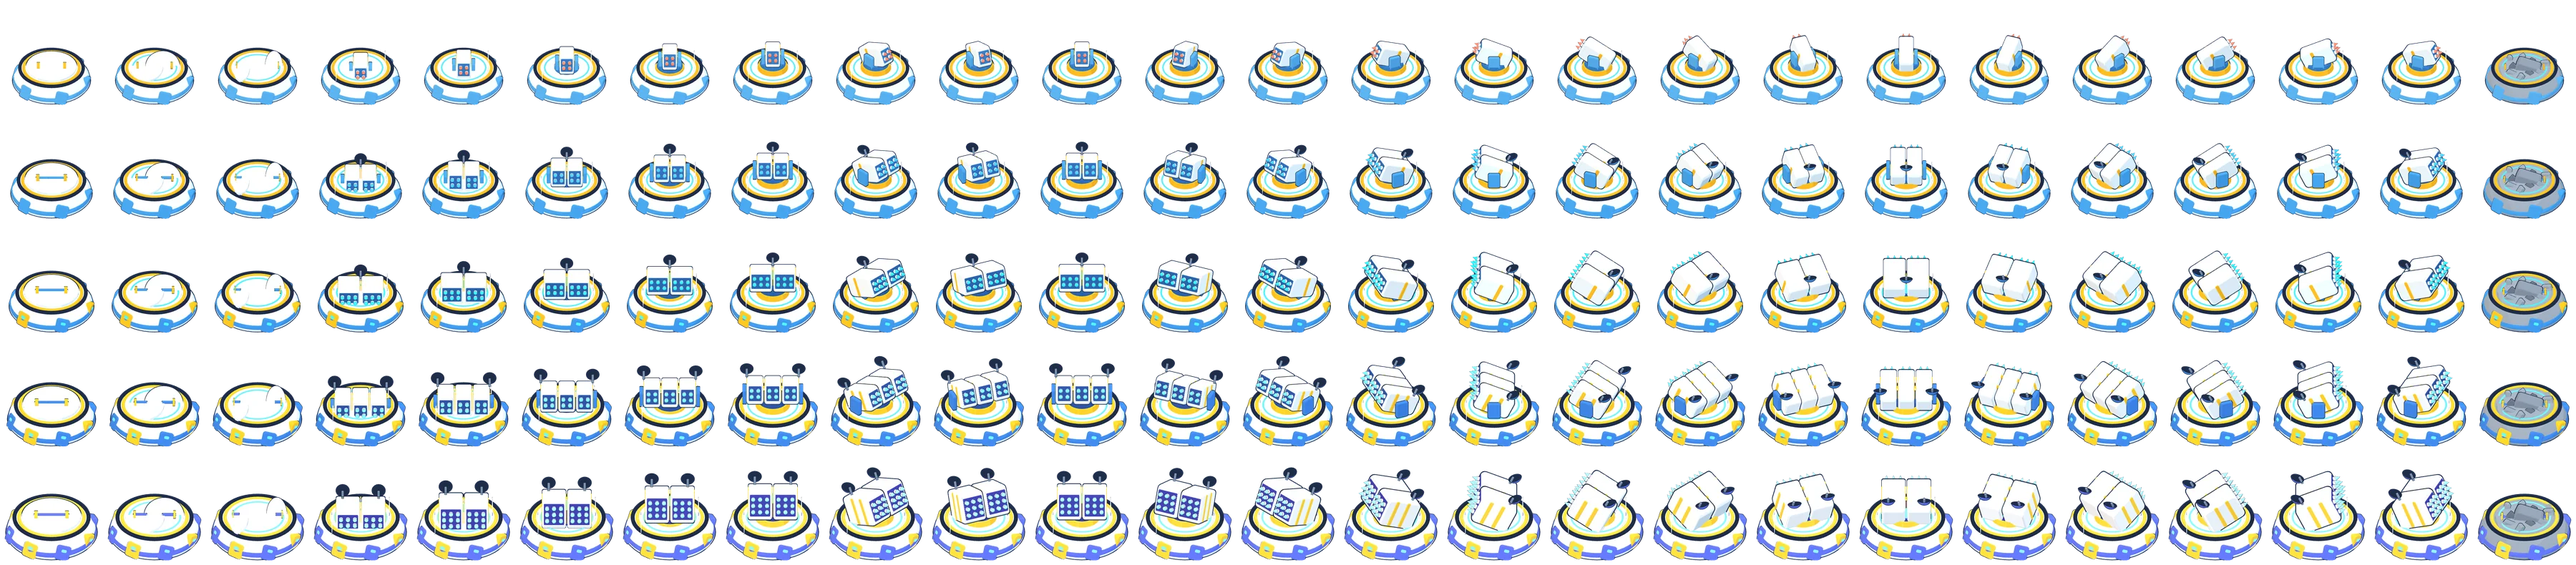
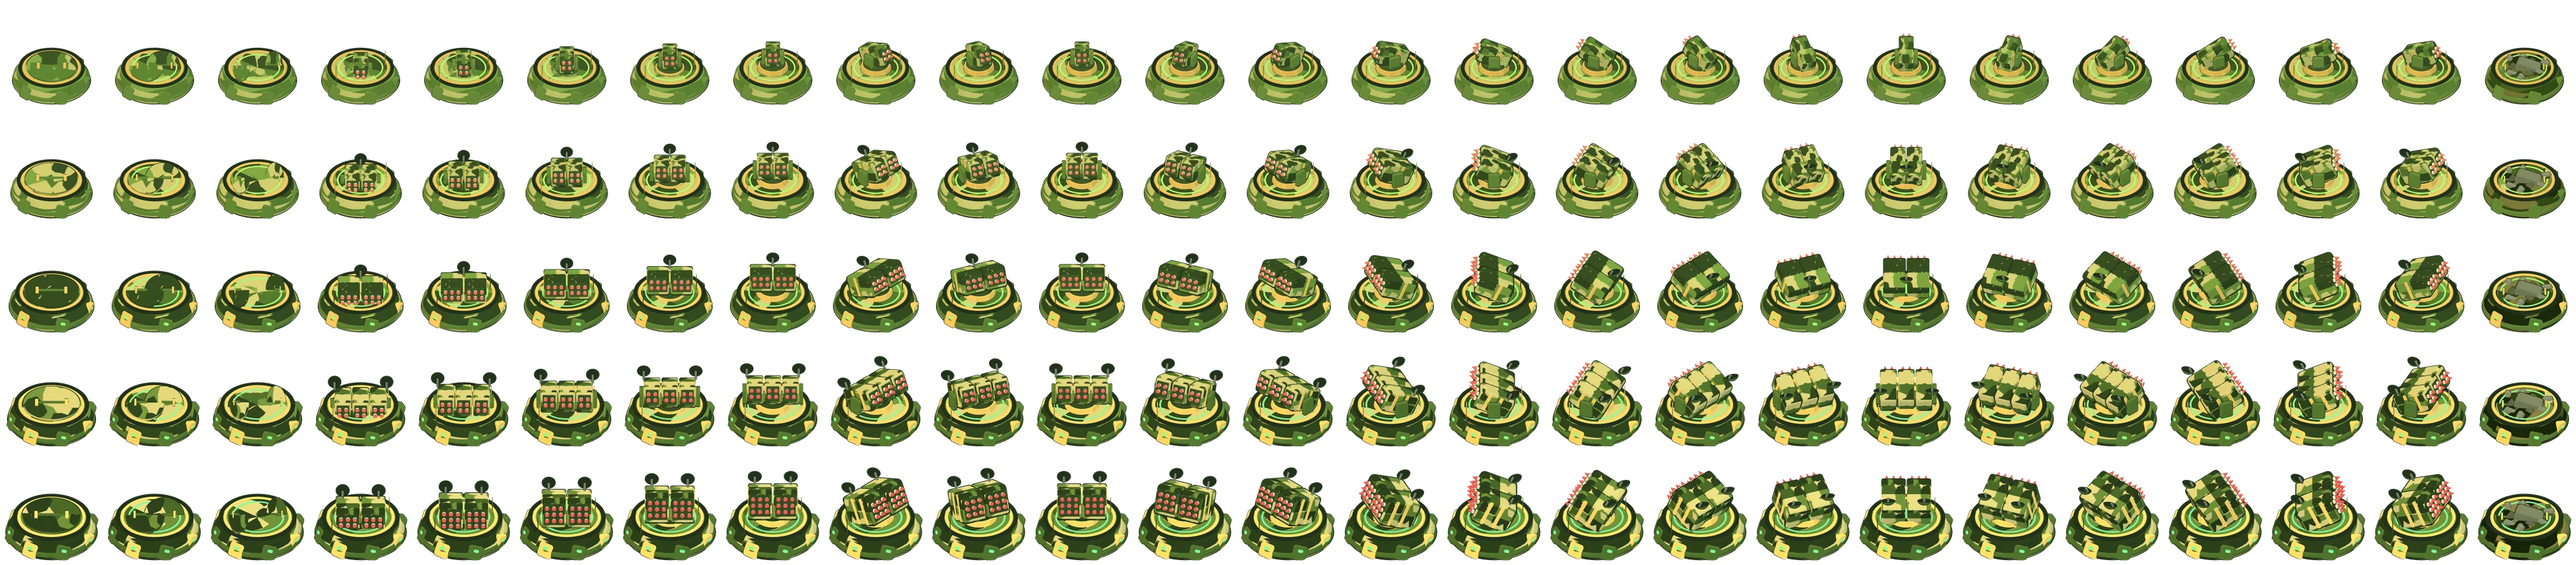
Missile silo in woodland camouflage to blend with grass (392)
Claude-Session: https://claude.ai/code/session_01ENEEn5t6aRdnVfFLYAeBwL

diff --git a/features/render3d/silo3d.html b/features/render3d/silo3d.html
@@ -15,23 +15,30 @@ const sun=new T.DirectionalLight(0xfff0d6,3.0);sun.position.set(-3,10,7);S.add(s
 const rim=new T.DirectionalLight(0x9fe3ff,1.4);rim.position.set(7,3,-5);S.add(rim);
 const g=new Uint8Array([65,145,212,255]);const ramp=new T.DataTexture(g,4,1,T.RedFormat);ramp.minFilter=ramp.magFilter=T.NearestFilter;ramp.needsUpdate=true;
 const M=(c,e=0)=>new T.MeshToonMaterial({color:c,gradientMap:ramp,emissive:e});
-const OUT=new T.MeshBasicMaterial({color:0x1f2c48,side:T.BackSide});
+const OUT=new T.MeshBasicMaterial({color:0x22301c,side:T.BackSide});
+// Woodland camouflage that sits naturally on the grass: olive base, leaf-green, khaki and dark-moss blotches.
+function camo(seed,cols,rep){const c=document.createElement('canvas');c.width=c.height=256;const x=c.getContext('2d');let r=seed;const rnd=()=>((r=(r*16807)%2147483647)/2147483647);
+ x.fillStyle=cols[0];x.fillRect(0,0,256,256);
+ for(let k=1;k<cols.length;k++){x.fillStyle=cols[k];for(let i=0;i<14-k*2;i++){const cx=rnd()*256,cy=rnd()*256,rr=18+rnd()*30;x.beginPath();for(let a=0;a<10;a++){const t=a/10*Math.PI*2,q=rr*(0.6+rnd()*0.6);x.lineTo(cx+Math.cos(t)*q*1.4,cy+Math.sin(t)*q);}x.closePath();
+  for(const dx of [-256,0,256])for(const dy of [-256,0,256]){x.save();x.translate(dx,dy);x.fill();x.restore();}}}
+ const tx=new T.CanvasTexture(c);tx.wrapS=tx.wrapT=T.RepeatWrapping;tx.repeat.set(rep,rep);tx.colorSpace=T.SRGBColorSpace;tx.magFilter=T.NearestFilter;return tx;}
+const CM=(tx)=>new T.MeshToonMaterial({color:0xffffff,map:tx,gradientMap:ramp});
 function mesh(geo,mat,parent,ol=0.05){const m=new T.Mesh(geo,mat);parent.add(m);if(ol){const o=new T.Mesh(geo,OUT);o.scale.setScalar(1+ol);m.add(o);}return m;}
 function lathe(pts,seg=48){return new T.LatheGeometry(pts.map(p=>new T.Vector2(p[0],p[1])),seg);}
 function rbox(w,h,d,r){const s=new T.Shape(),x=-w/2+r,y=-h/2+r;s.moveTo(x,-h/2);s.lineTo(w/2-r,-h/2);s.quadraticCurveTo(w/2,-h/2,w/2,y);s.lineTo(w/2,h/2-r);s.quadraticCurveTo(w/2,h/2,w/2-r,h/2);s.lineTo(x,h/2);s.quadraticCurveTo(-w/2,h/2,-w/2,h/2-r);s.lineTo(-w/2,y);s.quadraticCurveTo(-w/2,-h/2,x,-h/2);
  const geo=new T.ExtrudeGeometry(s,{depth:Math.max(0.01,d-2*r*0.6),bevelEnabled:true,bevelSize:r*0.6,bevelThickness:r*0.6,bevelSegments:3,curveSegments:6});geo.translate(0,0,-Math.max(0.01,d-2*r*0.6)/2);geo.computeVertexNormals();return geo;}
 // tier designs: each clearly richer than the last, same family
 const TIERS=[
- {pods:1,rows:2,cols:2,dish:0,scale:0.94,arm:0xdfe9f6,panel:0x4f9fe0,deep:0x2f6fb8,trim:0xf2a91e,tip:0xff7a5c,glow:0x5ff2ff,core:0},
- {pods:2,rows:2,cols:2,dish:1,scale:0.98,arm:0xdfe9f6,panel:0x3f95e0,deep:0x2a62b0,trim:0xf2a91e,tip:0x3fb8ff,glow:0x5ff2ff,core:0},
- {pods:2,rows:2,cols:3,dish:1,scale:1.02,arm:0xe4ecf8,panel:0x3a8ce0,deep:0x24589f,trim:0xf7b21f,tip:0x2fd5ff,glow:0x4ff7ff,core:1},
- {pods:3,rows:2,cols:2,dish:2,scale:1.06,arm:0xe8eefa,panel:0x3c7fe0,deep:0x2a4c9c,trim:0xffbf27,tip:0x6fe0ff,glow:0x6ff9ff,core:1},
- {pods:2,rows:3,cols:3,dish:2,scale:1.1,arm:0xf2f2fb,panel:0x5d6ff0,deep:0x3a3ca8,trim:0xffc93a,tip:0x9cf3ff,glow:0x8afcff,core:2}
+ {pods:1,rows:2,cols:2,dish:0,scale:0.94,camo:['#6f8f3c','#4f6f2b','#a4a65c','#33461f'],panel:0x5d7a33,deep:0x3d5226,trim:0xc9a34a,tip:0xd9632f,glow:0xb8ff6a,core:0},
+ {pods:2,rows:2,cols:2,dish:1,scale:0.98,camo:['#6c8c38','#4b6a28','#b0ac62','#2f421c'],panel:0x58772f,deep:0x3a4f23,trim:0xd2aa4e,tip:0xe0703a,glow:0xb8ff6a,core:0},
+ {pods:2,rows:2,cols:3,dish:1,scale:1.02,camo:['#698a37','#476526','#b8b268','#2c3f1b'],panel:0x547430,deep:0x364b21,trim:0xdcb354,tip:0xe85a32,glow:0x9dff7a,core:1},
+ {pods:3,rows:2,cols:2,dish:2,scale:1.06,camo:['#657f34','#435e24','#bfb46c','#283a18'],panel:0x4f6d2c,deep:0x31451e,trim:0xe6bd58,tip:0xef4f30,glow:0x8cff8a,core:1},
+ {pods:2,rows:3,cols:3,dish:2,scale:1.1,camo:['#5f7a31','#3d5621','#c7bb72','#243516'],panel:0x4a672a,deep:0x2c3f1c,trim:0xf2c75e,tip:0xf2452c,glow:0x7dffa0,core:2}
 ];
 let state=null;
 function build(t){
  const P=TIERS[t];if(state)S.remove(state.root);
- const ARM=M(P.arm),PANEL=M(P.panel),DEEP=M(P.deep),GOLD=M(P.trim),STEEL=M(0x6f84a0),DARK=M(0x27324a),TIP=M(P.tip,0x06283c),BODY=M(0xf6f8fc),GLOW=new T.MeshBasicMaterial({color:P.glow});
+ const camoTx=camo(7+t*13,P.camo,1.3),ARM=CM(camoTx),POD=CM(camo(11+t*13,P.camo,0.45)),PANEL=M(P.panel),DEEP=M(P.deep),GOLD=M(P.trim),STEEL=M(0x6d735e),DARK=M(0x262d1c),TIP=M(P.tip,0x06283c),BODY=M(0xd9d2b4),GLOW=new T.MeshBasicMaterial({color:P.glow});
  const root=new T.Group();root.scale.setScalar(P.scale);S.add(root);
  const base=new T.Group();root.add(base);
  mesh(lathe([[0,0],[2.1,0],[2.2,0.14],[2.12,0.45],[1.9,0.82],[1.62,1.0],[1.5,1.04],[0,1.04]]),ARM,base,0.02);
@@ -44,7 +51,7 @@ function build(t){
  const doors=[];
  for(const s of [1,-1]){const hinge=new T.Group();hinge.position.set(0,1.08,0);hinge.rotation.y=Math.PI/4;base.add(hinge);
   const arm=new T.Group();arm.position.x=s*1.42;hinge.add(arm);const lid=new T.Group();lid.position.x=-s*1.42;arm.add(lid);
-  mesh(new T.CylinderGeometry(1.42,1.42,0.16,40,1,false,s>0?Math.PI/2:-Math.PI/2,Math.PI),ARM,lid,0.03);
+  mesh(new T.CylinderGeometry(1.42,1.42,0.16,40,1,false,s>0?Math.PI/2:-Math.PI/2,Math.PI),POD,lid,0.03);
   const st=mesh(rbox(0.5,0.08,0.16,0.03),GOLD,lid,0.1);st.position.set(s*0.75,0.1,0);st.rotation.y=Math.PI/2;
   if(t>=1){const st2=mesh(rbox(0.9,0.06,0.12,0.03),PANEL,lid,0.1);st2.position.set(s*0.35,0.1,0);}
   doors.push({arm,s});}
@@ -58,7 +65,7 @@ function build(t){
  const span=P.pods*0.78;for(const z of [-span/2-0.1,span/2+0.1]){const sup=mesh(rbox(0.5,0.7,0.18,0.06),PANEL,yaw,0.06);sup.position.set(0,0.48,z);}
  const missiles=[],tips=[];const podH=0.3+P.rows*0.28,podW=0.12+P.cols*0.3;
  for(let k=0;k<P.pods;k++){const z=(k-(P.pods-1)/2)*(podW+0.08);const pod=new T.Group();pod.position.z=z;pitch.add(pod);
-  mesh(rbox(1.5,podH,podW,0.14),ARM,pod,0.04);
+  mesh(rbox(1.5,podH,podW,0.14),POD,pod,0.04);
   mesh(rbox(0.12,podH+0.04,podW+0.04,0.04),GOLD,pod,0).position.x=-0.2;
   if(t>=3)mesh(rbox(0.12,podH+0.04,podW+0.04,0.04),GOLD,pod,0).position.x=0.35;
   mesh(rbox(0.06,podH-0.12,podW-0.1,0.08),DEEP,pod,0).position.x=0.76;
@@ -71,8 +78,8 @@ function build(t){
   const d2=mesh(new T.SphereGeometry(0.32,22,10,0,Math.PI*2,0,Math.PI/2.8),PANEL,dish,0.06);d2.rotation.x=Math.PI;d2.rotation.z=0.7;d2.position.y=0.4;}
  // wreck pieces (only shown destroyed)
  const wreck=new T.Group();root.add(wreck);
- for(let i=0;i<9;i++){const a=i*0.7+0.3,r=0.6+((i*37)%10)/14;const p=mesh(rbox(0.35+(i%3)*0.12,0.18,0.3,0.05),i%3?M(0x8e9bb0):M(0x5f6c82),wreck,0.08);p.position.set(Math.cos(a)*r,1.0+(i%2)*0.08,Math.sin(a)*r);p.rotation.set(i*0.7,i*1.3,i*0.4);}
- const bentPod=mesh(rbox(1.2,0.6,0.6,0.12),M(0x7f8aa0),wreck,0.05);bentPod.position.set(0.2,1.15,-0.1);bentPod.rotation.set(0.3,0.6,-0.5);
+ for(let i=0;i<9;i++){const a=i*0.7+0.3,r=0.6+((i*37)%10)/14;const p=mesh(rbox(0.35+(i%3)*0.12,0.18,0.3,0.05),i%3?M(0x7d7f68):M(0x55593f),wreck,0.08);p.position.set(Math.cos(a)*r,1.0+(i%2)*0.08,Math.sin(a)*r);p.rotation.set(i*0.7,i*1.3,i*0.4);}
+ const bentPod=mesh(rbox(1.2,0.6,0.6,0.12),M(0x6c7254),wreck,0.05);bentPod.position.set(0.2,1.15,-0.1);bentPod.rotation.set(0.3,0.6,-0.5);
  state={root,base,doors,lift,yaw,pitch,missiles,wreck,armMat:ARM,P,podH};
 }
 window.pose=(t,open,yawA,wreckd)=>{
@@ -81,7 +88,7 @@ window.pose=(t,open,yawA,wreckd)=>{
  st.doors.forEach(d=>{d.arm.scale.x=Math.max(0.02,1-door*0.98);d.arm.position.y=door*0.04;d.arm.rotation.z=wreckd?d.s*0.35:0;});
  st.lift.position.y=-1.1+up*1.15;st.lift.visible=!wreckd&&up>0.12;
  st.yaw.rotation.y=yawA;st.pitch.rotation.z=0.12+up*0.3;
- st.wreck.visible=!!wreckd;st.armMat.color.set(wreckd?0x8f9aae:st.P.arm);
+ st.wreck.visible=!!wreckd;st.armMat.color.set(wreckd?0x9a9a88:0xffffff);
  R.render(S,cam);st.root.updateMatrixWorld(true);const v=new T.Vector3(1.05,0,0);st.pitch.localToWorld(v);v.project(cam);
  return {img:canvas.toDataURL('image/png'),mx:(v.x+1)/2*canvas.width,my:(1-v.y)/2*canvas.height};
 };

diff --git a/docs/units392.md b/docs/units392.md
@@ -12,4 +12,4 @@ Known art gaps from the generator: battle-mech front walk frames lack the gatlin
 
 ## 3D pre-rendered silo (replaces the AI-drawn silo)
 
-`features/render3d/silo3d.html` is a three.js toon-shaded model (outlines, 4-step light ramp, white-blue armour, gold trim, cyan glow) with 5 tiers (pods, missile count, radar dishes, glow core, trim and colour change). `node features/render3d/render.cjs` renders `assets/silo3d392.webp` (per tier: 8 pop-up frames, 16 aim directions, 1 wreck) and `silo3d.json` (anchors, per-direction muzzle points). The camera matches the game grid (yaw 45°, screen depth 0.62). `silo3d392.js` maps levels 1–20 to tiers in steps of 4, keeps the open/close logic, and picks the direction frame from the turret's aim. The AI atlas is kept in staging only.
+`features/render3d/silo3d.html` is a three.js toon-shaded model (outlines, 4-step light ramp, woodland camouflage that blends with grass, olive panels, brass trim) with 5 tiers (pods, missile count, radar dishes, glow core, trim and colour change). `node features/render3d/render.cjs` renders `assets/silo3d392.webp` (per tier: 8 pop-up frames, 16 aim directions, 1 wreck) and `silo3d.json` (anchors, per-direction muzzle points). The camera matches the game grid (yaw 45°, screen depth 0.62). `silo3d392.js` maps levels 1–20 to tiers in steps of 4, keeps the open/close logic, and picks the direction frame from the turret's aim. The AI atlas is kept in staging only.
